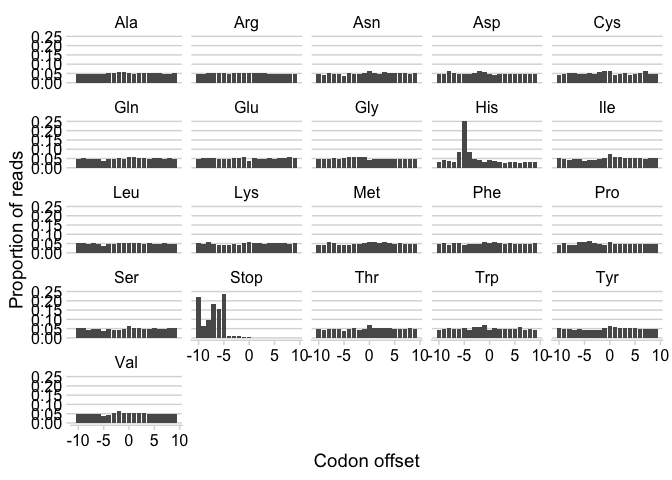
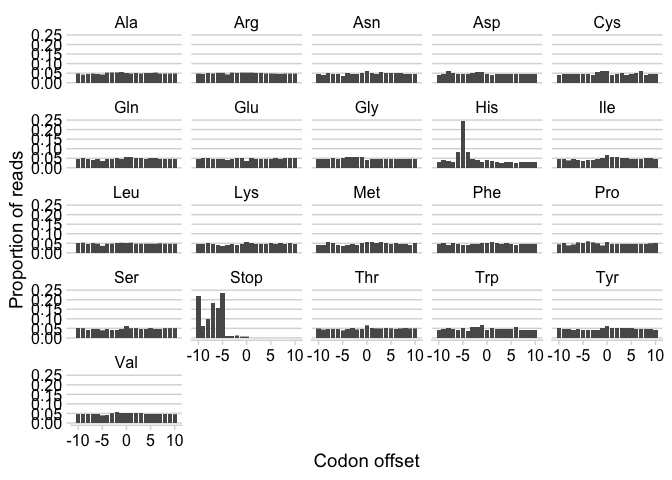
Split by isodecoder

diff --git a/ribo-profiling/rpfs_by_codon.py b/ribo-profiling/rpfs_by_codon.py
@@ -1,15 +1,13 @@
 #! /usr/bin/env python3
 
 '''
-Analyze ribosome profiling data.
+Analyze ribosome profiling data. Goal is to visualize the "ribosome shadow".
 
-Goal is to visualize the "ribosome shadow".
+Data is from Guydosh et al (2014) Mol Cell. Sample is WT yeast treated with
+3-aminotriazole for 2 hours to inhibit histidine synthesis, depleting histidinyl-tRNAs
+and stalling ribosomes at histidine codons.
 
-Strategy: XXX
-
-Data is from Guydosh et al (2014) Mol Cell
-
-Output is a TSV that we can plot in R (or matplotlib, if you want
+Output are TSV that we can plot in R (or matplotlib, if you want
 to wait).
 '''
 
@@ -36,7 +34,7 @@ def main():
     codons = load_gene_codons(genes)
 
     # map rpf signal onto codons
-    print(">> mapping rpf signal to codons ... ", file=sys.stderr, end='')
+    print(">> mapping rpf signal to codons ... ", file=sys.stderr)
     codon_signal = codons.map(rpfs, c=4, o='sum')
 
     codon_table = make_codon_table()
@@ -50,30 +48,31 @@ def main():
         if signal == '.': continue
 
         codon_seq = genome[ivl.chrom][ivl.start:ivl.end].seq
-        codon_aa = codon_table[codon_seq]
 
         # dict[gene][codon_pos] = (codon_aa, signal)
-        codon_sums[ivl.name][int(ivl.score)] = (codon_aa, int(signal))
+        codon_sums[ivl.name][int(ivl.score)] = (codon_seq, int(signal))
 
     print(">> calcualting signal at codon offsets ...", file=sys.stderr)
+
     codon_offset_signal = defaultdict(Counter)
     for gene, codon_data in codon_sums.items():
         for codon_pos, data in codon_sums[gene].items():
 
-            codon, signal = data
+            codon_seq, signal = data
 
-            for offset in range(-10, 10):
+            for offset in range(-10, 11):
                 codon_offset = codon_pos + offset
                 try:
                     _, signal_offset = codon_sums[gene][codon_offset]
                 except KeyError:
                     continue
 
-                codon_offset_signal[codon][offset] += signal_offset
+                codon_offset_signal[codon_seq][offset] += signal_offset
 
-    for codon in codon_offset_signal:
-        for offset, signal in codon_offset_signal[codon].items():
-            print('\t'.join(map(str, [codon, offset, signal])))
+    for codon_seq in codon_offset_signal:
+        codon_aa = codon_table[codon_seq]
+        for offset, signal in codon_offset_signal[codon_seq].items():
+            print('\t'.join(map(str, [codon_seq, codon_aa, offset, signal])))
 
 def make_codon_table():
     tbl = dict()

diff --git a/README.md b/README.md
@@ -4,6 +4,10 @@ Jay Hesselberth
 
 ## Ribosome footprinting
 
+``` bash
+python3 ribo-profiling/rpfs_by_codon.py
+```
+
 Illustrates position of the “ribosome shadow” established by ribosomes
 stalled at histidine codons in cells starved for histidine and
 histidinyl-tRNAs.
@@ -13,26 +17,65 @@ library(tidyverse)
 library(cowplot)
 
 tbl <- read_tsv(
-  "ribo-profiling/rpfs.tsv.gz",
-  col_names = c("codon", "offset", "signal")
-) %>%
-  group_by(codon) %>%
-  mutate(prop.signal = signal / sum(signal))
+  "ribo-profiling/rpfs.iso.tsv.gz",
+  col_names = c("codon", "aa", "offset", "signal")
+)
 
-ggplot(tbl, aes(offset, prop.signal)) +
-  geom_col() +
-  facet_wrap(~ codon) + 
-  theme_minimal_hgrid() +
-  labs(
-    x = "Codon offset",
-    y = "Proportion of reads"
-  )
+tbl
+```
+
+    ## # A tibble: 1,324 x 4
+    ##    codon aa    offset signal
+    ##    <chr> <chr>  <dbl>  <dbl>
+    ##  1 TCA   Ser        0  66825
+    ##  2 TCA   Ser       -6  46632
+    ##  3 TCA   Ser       -3  46056
+    ##  4 TCA   Ser       -2  45570
+    ##  5 TCA   Ser       -1  46082
+    ##  6 TCA   Ser        1  58346
+    ##  7 TCA   Ser       -8  33891
+    ##  8 TCA   Ser       -7  42053
+    ##  9 TCA   Ser       -5  35769
+    ## 10 TCA   Ser       -4  44854
+    ## # … with 1,314 more rows
+
+### By amino acid
+
+``` r
+group_by(tbl, aa) %>%
+  mutate(prop.signal = signal / sum(signal)) %>%
+  ggplot(aes(offset, prop.signal)) +
+    geom_col() +
+    facet_wrap(~ aa) + 
+    theme_minimal_hgrid() +
+    labs(
+      x = "Codon offset",
+      y = "Proportion of reads"
+    )
 ```
 
 ![](README_files/figure-gfm/rpf_plot-1.png)<!-- -->
+
+### By isodecoder
+
+``` r
+tbl %>%
+  group_by(codon) %>%
+  mutate(prop.signal = signal / sum(signal)) %>%
+  ggplot(aes(offset, prop.signal)) +
+    geom_col() +
+    facet_wrap(~ codon) + 
+    theme_minimal_hgrid() +
+    labs(
+      x = "Codon offset",
+      y = "Proportion of reads"
+    )
+```
+
+![](README_files/figure-gfm/rpf_plot_iso-1.png)<!-- -->
 
 ### Exercises
 
 1.  Include data from minus strand genes.
 
-2.  Break up by tRNA isodecoder.
+2.  Break up by tRNA isodecoder (done, takes a few hours to run)
